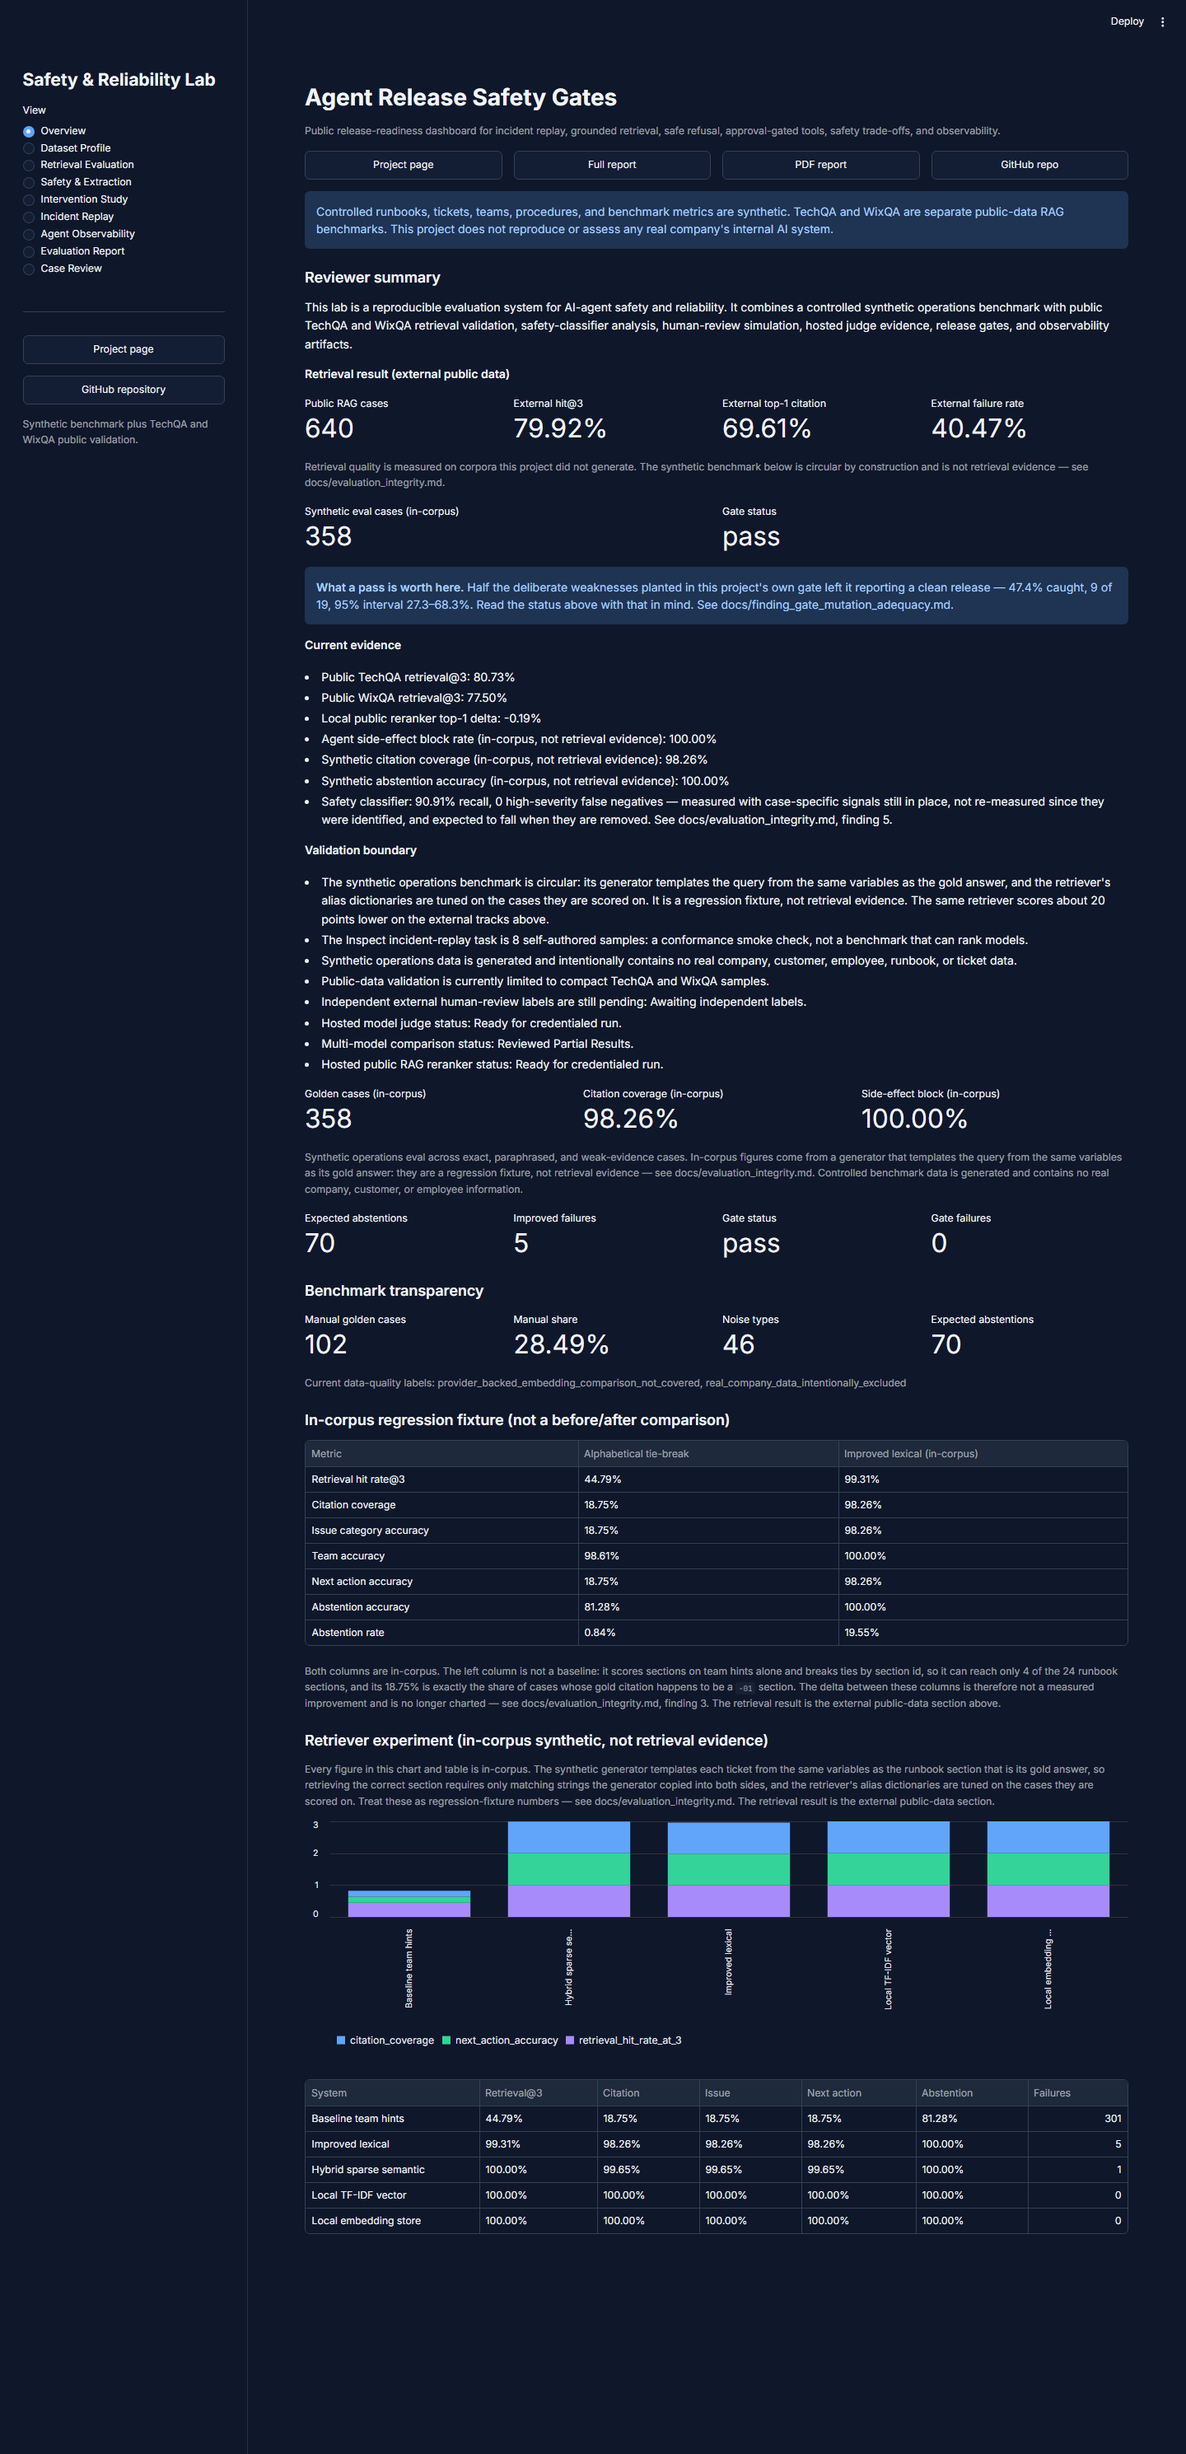
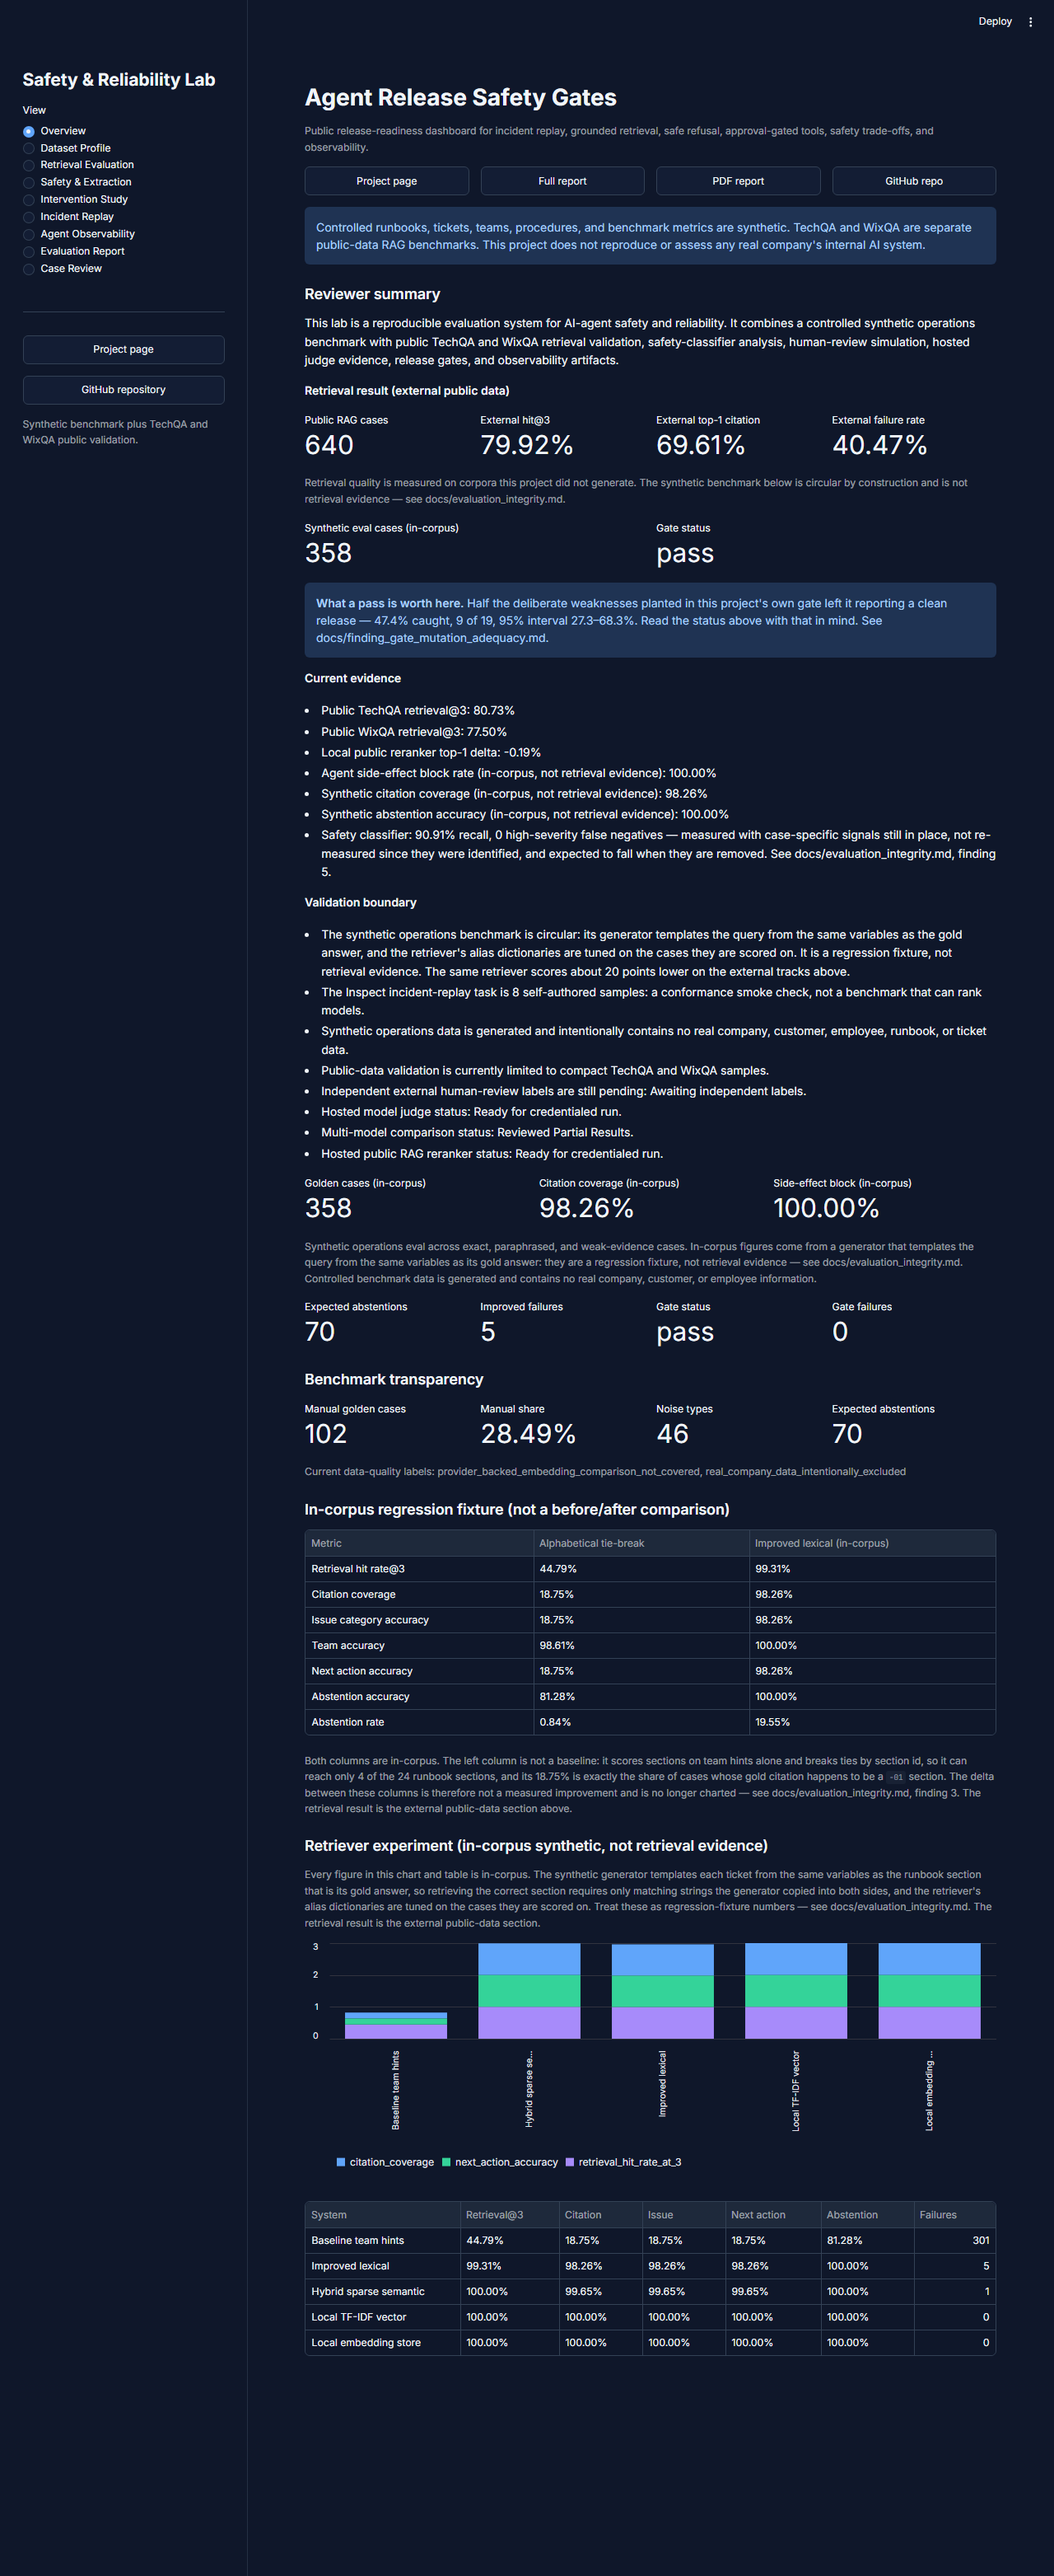
release: 0.1.5 — the corrected description, and a tour for the captures
The README is the PyPI description and PyPI freezes it at upload, so this release
exists to carry a corrected one. 0.1.4's page keeps its frozen text permanently;
what changes is what a reader of the current project page sees.

Walked all nine dashboard views against the committed artifacts before touching
anything. Every view renders with no exception, no placeholder state and no empty
data frame; 34 metrics across seven views were traced to the reports/*.json paths
that produce them, read from the files rather than from the page, with no
mismatches. Vega logs "infinite extent" warnings on the discrete-x line charts, so
all fifteen charts were checked in the rendered DOM for drawn marks rather than
bare axes -- none is empty. Two apparent mismatches turned out to be defects in
the checking harness, not the dashboard: a title-cased expectation, and a metric
label appearing twice on one view so a label-keyed dict kept only the last. The
harness now reports duplicates instead of hiding them.

All nine captures retaken from the running app at the 1280px desktop preset, one
theme, one scale. They previously sat on the public default branch with zero
references anywhere in the tree; docs/dashboard_tour.md now gives each one a
caption saying what it shows and what to conclude from it, and the README and
docs/dashboard.md link it. The Evaluation Report capture is truncated from
36,356px and says so -- it renders a document already published in full as HTML
and PDF.
[…]

diff --git a/docs/dashboard_tour.md b/docs/dashboard_tour.md
@@ -1,0 +1,176 @@
+# A tour of the dashboard
+
+Nine views, what each one shows, and what to conclude from it. The dashboard is the
+interactive complement to the [project page](https://rosscyking1115.github.io/agent-release-gates/);
+[run it locally or deploy it](dashboard.md), or open the
+[hosted instance](https://agent-release-gates.streamlit.app/).
+
+**Read this first.** The dashboard reports two different kinds of number and they are
+not interchangeable.
+
+- **External** figures come from public corpora this project did not generate — NVIDIA
+  TechQA-RAG-Eval and Wix WixQA, 640 cases. They are the retrieval result.
+- **In-corpus** figures come from this project's own synthetic operations benchmark,
+  which is circular by construction: the generator templates each query from the same
+  variables as its gold answer. They are a regression fixture and are labelled
+  `(in-corpus)` wherever they appear. See
+  [evaluation integrity](evaluation_integrity.md).
+
+Every capture below was taken from the running app at a fixed 1280px-wide desktop
+viewport in the dark theme, so the set reads as one sitting rather than nine.
+
+---
+
+## Overview — what the release decision is, and what it is worth
+
+![Overview](img/dashboard/overview-release-decision.png)
+
+The external retrieval result leads: 640 public cases, 79.92% hit@3, 69.61% top-1
+citation, 40.47% case-level failure rate. Below it the synthetic case count and the gate
+status, then the panel that matters most on this screen — **what a pass is worth**.
+
+**What to conclude.** The gate says `pass`, and the panel beside it says that half the
+deliberate weaknesses planted in this gate's own configuration left it saying exactly
+that. A pass here means the seeded checks did not fire; it is not evidence that the
+safety layer works. That is the finding this repository exists to publish, and it is
+placed where a reader meets the verdict rather than three documents away.
+
+Note what is *not* here. Safety recall has no tile: it appears further down, in the
+evidence list, with the caveat that it was measured with case-specific signals still in
+place. A metric with nowhere to put its qualification does not belong in a grid beside
+external results.
+
+---
+
+## Dataset Profile — what the benchmark is made of
+
+![Dataset Profile](img/dashboard/dataset-profile-benchmark-composition.png)
+
+358 golden cases, 102 of them hand-written, 46 noise types, 70 cases where the correct
+answer is to abstain. Tabs break the corpus down by noise type, task, issue category and
+red-team risk, and name the known gaps.
+
+**What to conclude.** High scores on a synthetic benchmark mean nothing without its
+composition, and a benchmark whose gaps are not stated is a benchmark you cannot size.
+The 70 expected abstentions are the interesting number: they are the cases where
+answering at all is the failure.
+
+---
+
+## Retrieval Evaluation — the external result, and the fixture beside it
+
+![Retrieval Evaluation](img/dashboard/retrieval-external-vs-in-corpus.png)
+
+The in-corpus retriever experiment, explicitly labelled as not retrieval evidence, then
+the two public tracks: TechQA at 80.73% retrieval@3 over 480 cases, WixQA at 77.50% over
+160, and the cross-track weighted figure of 79.92%. Then reranking headroom, failure
+analysis and the release-gate table.
+
+**What to conclude.** The same retriever scores 99.31% in-corpus and 79.92% on corpora
+it did not generate. That ~20-point gap is what the benchmark's circularity is worth in
+points, and it is the reason the external number is the one reported.
+
+---
+
+## Safety & Extraction — the classifier as an operating decision
+
+![Safety & Extraction](img/dashboard/safety-classifier-operating-point.png)
+
+Challenge-set recall, false-positive rate, prevalence, threshold sweep, retuning
+comparison, human-review simulation, reviewer disagreement slices, secondary-review band
+and the threshold decision memo.
+
+**What to conclude.** Read the warning above the tiles before the tiles. The 90.91%
+recall was measured with benign-intent signals that match single evaluation cases
+verbatim still in place — the classifier partly recognises its own test set, and the
+number should be expected to fall when they are removed. This view is included as an
+example of reporting a metric alongside what it cost and what it cannot support, not as
+a headline.
+
+---
+
+## Intervention Study — what each safeguard buys and what it costs
+
+![Intervention Study](img/dashboard/intervention-safety-usefulness-tradeoff.png)
+
+Frozen baseline against layered safeguards across prompt injection, action gating, RAG
+grounding, memory pollution and goal conflict — each reporting the unsafe behaviour it
+prevents *and* the review burden it adds per 100 requests.
+
+**What to conclude.** A safeguard reported without its cost is a safeguard nobody can
+decide about. Blocking everything scores perfectly on safety and is useless; these
+panels are built so that trade-off is visible rather than implied.
+
+---
+
+## Incident Replay — eight scenarios, replayed against the current agent
+
+![Incident Replay](img/dashboard/incident-replay-verdicts.png)
+
+Eight constructed incidents replayed against the shipped controlled agent: the original
+verdict, the replay verdict, whether the expected behaviour matched, must-not violations,
+trace coverage, and per-incident memos, traces and release gates.
+
+**What to conclude.** Every incident closes and there are no must-not violations —
+which is exactly the reassuring picture the panel beneath the gate tile qualifies. Note
+`INC-2026-0003`: its replay decision is `review`, not `block`. It read `block` until the
+committed evidence was made reproducible, and the movement is
+[recorded rather than quietly corrected](evaluation_integrity.md#finding-6-a-committed-verdict-whose-declared-input-did-not-exist).
+
+---
+
+## Agent Observability — whether the run can be inspected at all
+
+![Agent Observability](img/dashboard/observability-traces-and-spans.png)
+
+180 in-corpus agent cases, side-effect block rate, OpenTelemetry-style span export, a
+local trace index of 21 traces, component summaries and error-span examples.
+
+**What to conclude.** A safety claim you cannot trace is a safety claim you cannot
+audit. The spans are deterministic and exported in a standard shape, which is what makes
+the approval decisions in the other views checkable rather than merely asserted.
+
+---
+
+## Evaluation Report — the whole generated report, inline
+
+![Evaluation Report](img/dashboard/evaluation-report-full-text.png)
+
+The full deterministic evaluation report rendered in the page, identical to the
+[HTML](https://rosscyking1115.github.io/agent-release-gates/evaluation_report.html) and
+[PDF](https://rosscyking1115.github.io/agent-release-gates/evaluation_report.pdf)
+exports.
+
+**This capture is truncated** — the view runs to 36,356px and is cut at 9,000px, roughly
+the first quarter. Nothing is lost by that: the document it renders is published in full
+at both links above. It is shown here only so the tour is complete.
+
+**What to conclude.** The report is generated, not written, so it cannot drift from the
+artifacts. Its retrieval section carries the circularity warning and its safety section
+carries the recall caveat, in the same words as everywhere else.
+
+---
+
+## Case Review — the individual failures
+
+![Case Review](img/dashboard/case-review-per-case-failures.png)
+
+Per-case rows for the baseline and improved retrievers: which cases failed, on what, and
+with which citation.
+
+**What to conclude.** Aggregates hide the shape of a failure. This is where a reader
+checks whether the 5 remaining improved-retriever failures are a long tail or one
+systematic gap — and the answer determines whether the headline number means anything.
+
+---
+
+## How these captures are kept honest
+
+Every number above was checked against the committed artifact that produces it, read
+from the file rather than from the page: 34 metrics across seven views traced to
+`reports/*.json`, with no mismatches. All nine views render with no exception, no
+placeholder state and no empty data frame, and all 15 charts were confirmed to contain
+drawn marks rather than bare axes.
+
+The captures are documentation, not part of the package: `docs/img` is excluded from the
+sdist, so nothing a `pip install` produces depends on them.

diff --git a/CHANGELOG.md b/CHANGELOG.md
@@ -6,6 +6,8 @@ adheres to [Semantic Versioning](https://semver.org/spec/v2.0.0.html).
 
 ## [Unreleased]
 
+## [0.1.5] - 2026-08-05
+
 ### Added
 
 - **A release path that gates, over Trusted Publishing.**
@@ -103,10 +105,16 @@ adheres to [Semantic Versioning](https://semver.org/spec/v2.0.0.html).
   committed and `*.csv` is marked `-text` so git cannot normalise it back. Content
   was identical throughout; only the line endings moved.
 
-### Known wrong, and not correctable here
+### Known wrong in 0.1.4, corrected by this release
 
 - **PyPI's published 0.1.4 page describes the README figure as a dashboard
-  screenshot. It is not one, and that text cannot be corrected.**
+  screenshot. It is not one, that text can never be corrected, and 0.1.5 is the
+  correction — for 0.1.5 onward only.**
+
+  0.1.4's page keeps its frozen description permanently; nothing here reaches it.
+  What this release does is stop the wrong text being what a reader of the
+  *current* project page sees, because PyPI shows the latest version's
+  description. The account below is kept for the record rather than removed.
 
   The figure at `docs/img/dashboard.png` was replaced: it is now a render of the
   gate mutation adequacy result rather than a screenshot of the Streamlit
@@ -595,6 +603,7 @@ for as long as it is the latest release. That is the reason this version exists.
   Inspect task, a real-agent runner, and the eval/scoring core (lean install,
   `pydantic` only; `api` and `dashboard` extras opt-in).
 
+[0.1.5]: https://github.com/rosscyking1115/agent-release-gates/releases/tag/v0.1.5
 [0.1.4]: https://github.com/rosscyking1115/agent-release-gates/releases/tag/v0.1.4
 [0.1.3]: https://github.com/rosscyking1115/agent-release-gates/releases/tag/v0.1.3
 [0.1.2]: https://github.com/rosscyking1115/agent-release-gates/releases/tag/v0.1.2

diff --git a/README.md b/README.md
@@ -131,12 +131,14 @@ and limits.
 | What the eight incident cases are | [incident_cases.md](https://github.com/rosscyking1115/agent-release-gates/blob/main/docs/incident_cases.md) |
 | Why the benchmark programme was closed | [atlas_executability_audit.md](https://github.com/rosscyking1115/agent-release-gates/blob/main/docs/atlas_executability_audit.md) |
 | A packaging defect, generalised | [finding_gitignore_not_a_packaging_control.md](https://github.com/rosscyking1115/agent-release-gates/blob/main/docs/finding_gitignore_not_a_packaging_control.md) |
+| A tour of the dashboard, view by view | [dashboard_tour.md](https://github.com/rosscyking1115/agent-release-gates/blob/main/docs/dashboard_tour.md) |
 | Design rationale, schemas, cards, house style | [docs/](https://github.com/rosscyking1115/agent-release-gates/tree/main/docs/) |
 | The probe, the runners, the release gate | [scripts/](https://github.com/rosscyking1115/agent-release-gates/tree/main/scripts/), [src/](https://github.com/rosscyking1115/agent-release-gates/tree/main/src/internal_ai_agent/) |
 
 Also here: an Inspect (UK AISI) task, a FastAPI evidence service, a
 [Streamlit dashboard](https://agent-release-gates.streamlit.app/) of the underlying
-evaluation runs, Docker, and CI.
+evaluation runs — [toured view by view](https://github.com/rosscyking1115/agent-release-gates/blob/main/docs/dashboard_tour.md)
+— Docker, and CI.
 
 ## Limitations
 

diff --git a/docs/dashboard.md b/docs/dashboard.md
@@ -6,6 +6,10 @@ evaluation metrics. The public, always-available surface is the
 [GitHub Pages report](https://rosscyking1115.github.io/agent-release-gates/); the
 dashboard is the interactive complement.
 
+**To see what it shows without running it**, read the
+[dashboard tour](dashboard_tour.md): all nine views captured, with what each one answers
+and what to conclude from it.
+
 ## Run locally
 
 ```powershell
